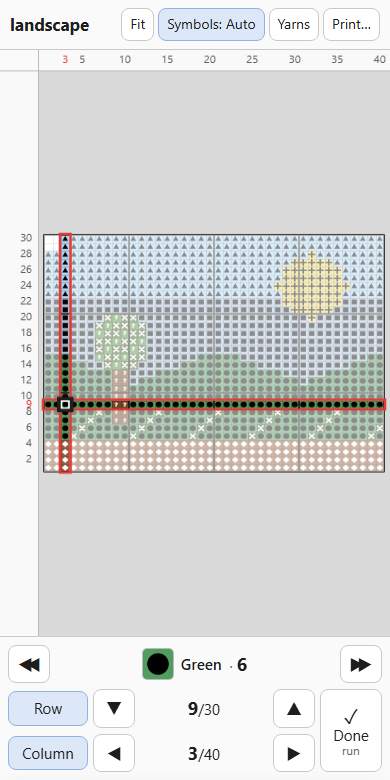
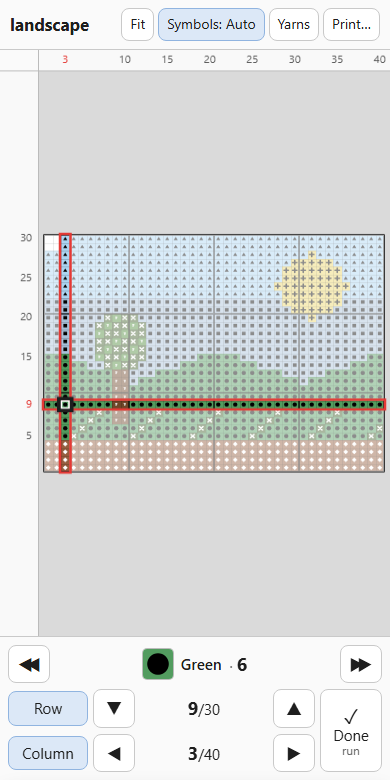
Pattern: symbols keep clear of grid lines; gutter numbers don't crowd
Symbols are sized to stay 1.5 px off the cell edge (never below 72% of the cell), so they
no longer run into the bold 10-lines. Gutter label spacing comes from the widest number,
and numbers next to the tracked row / column give way to its red label.

Changed region(s): [[0.0308, 0.3077, 0.9846, 0.6154]]

diff --git a/src/latchwork/pattern_template.html b/src/latchwork/pattern_template.html
@@ -368,11 +368,15 @@ function drawGrid(ctx, o) {
   // symbols
   // o.sym: "auto"/true = only when cells are big enough, "always" = down to SYM_FLOOR
   const symMin = o.sym === "always" ? SYM_FLOOR : SYM_MIN;
+  // The widest symbols (outlined star, hexagon) reach 0.47 of their size from the centre. Keep
+  // 1.5 px clear of the cell edge (the bold 10-line is 2 px, centred on the edge), but never
+  // shrink a symbol below 72% of the cell, where it would stop being readable.
+  const symSize = Math.min(s, Math.max(s * 0.72, (s / 2 - 1.5) / 0.47));
   if (o.sym && o.sym !== "off" && s >= symMin) {
     for (let r = r0; r < r1; r++) for (let c = c0; c < c1; c++) {
       const i = (o.y0 + r) * W + o.x0 + c, v = cells[i];
       if (v === NONE || (o.highlight >= 0 && v !== o.highlight) || (o.done && isDone(i))) continue;
-      drawSymbol(ctx, v, ox + (c + .5) * s, oy + (r + .5) * s, s, Y[v].ink);
+      drawSymbol(ctx, v, ox + (c + .5) * s, oy + (r + .5) * s, symSize, Y[v].ink);
     }
   }
   // grid lines: thin per cell when large enough, bold every 10 (rows counted from the bottom)
@@ -455,28 +459,25 @@ function paint() {
   g.fillRect(0, 0, vw, GT); g.fillRect(0, 0, GL, vh);
   g.fillStyle = "#555"; g.font = "11px Segoe UI, Arial, sans-serif"; g.textBaseline = "middle";
   g.textAlign = "center";
-  const cs = labelStep(scale, 26);
+  // a label needs its own width plus a gap; numbers near the tracked one give way to it
+  const colGap = g.measureText(String(W)).width + 14, rowGap = 18;
+  const tx = ox + (state.col - .5) * scale, ty = oy + (H - state.row + .5) * scale;
+  const cs = labelStep(scale, colGap);
   for (let c = cs; c <= W; c += cs) {
     const x = ox + (c - .5) * scale;
-    if (x > GL - 4 && x < vw && !(state.colOn && c === state.col)) g.fillText(String(c), x, GT / 2);
+    if (x > GL - 4 && x < vw && !(state.colOn && Math.abs(x - tx) < colGap)) g.fillText(String(c), x, GT / 2);
   }
-  if (state.colOn) {   // always label the tracked column
-    const x = ox + (state.col - .5) * scale;
-    if (x > GL && x < vw) { g.fillStyle = "#E53935"; g.fillText(String(state.col), x, GT / 2); }
-    g.fillStyle = "#555";
+  if (state.colOn && tx > GL && tx < vw) {   // always label the tracked column
+    g.fillStyle = "#E53935"; g.fillText(String(state.col), tx, GT / 2); g.fillStyle = "#555";
   }
   g.textAlign = "right";
-  const rs = labelStep(scale, 15);
+  const rs = labelStep(scale, rowGap);
   for (let rn = rs; rn <= H; rn += rs) {
     const y = oy + (H - rn + .5) * scale;
-    if (y > GT - 4 && y < vh) {
-      g.fillStyle = state.rowOn && rn === state.row ? "#E53935" : "#555";
-      g.fillText(String(rn), GL - 6, y);
-    }
+    if (y > GT - 4 && y < vh && !(state.rowOn && Math.abs(y - ty) < rowGap)) g.fillText(String(rn), GL - 6, y);
   }
-  if (state.rowOn && rs > 1) {   // always label the tracked row
-    const y = oy + (H - state.row + .5) * scale;
-    if (y > GT && y < vh) { g.fillStyle = "#E53935"; g.fillText(String(state.row), GL - 6, y); }
+  if (state.rowOn && ty > GT && ty < vh) {   // always label the tracked row
+    g.fillStyle = "#E53935"; g.fillText(String(state.row), GL - 6, ty);
   }
   g.fillStyle = "rgba(250,250,250,1)"; g.fillRect(0, 0, GL, GT);
   g.strokeStyle = "#BBB"; g.lineWidth = 1;
